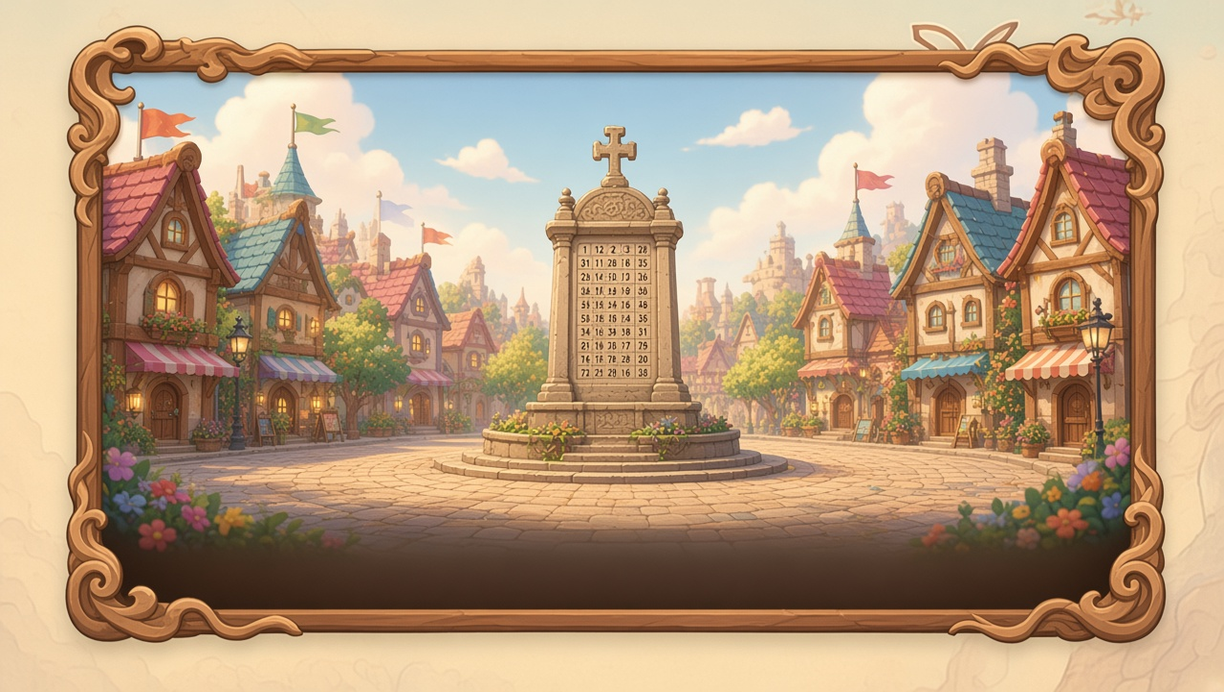
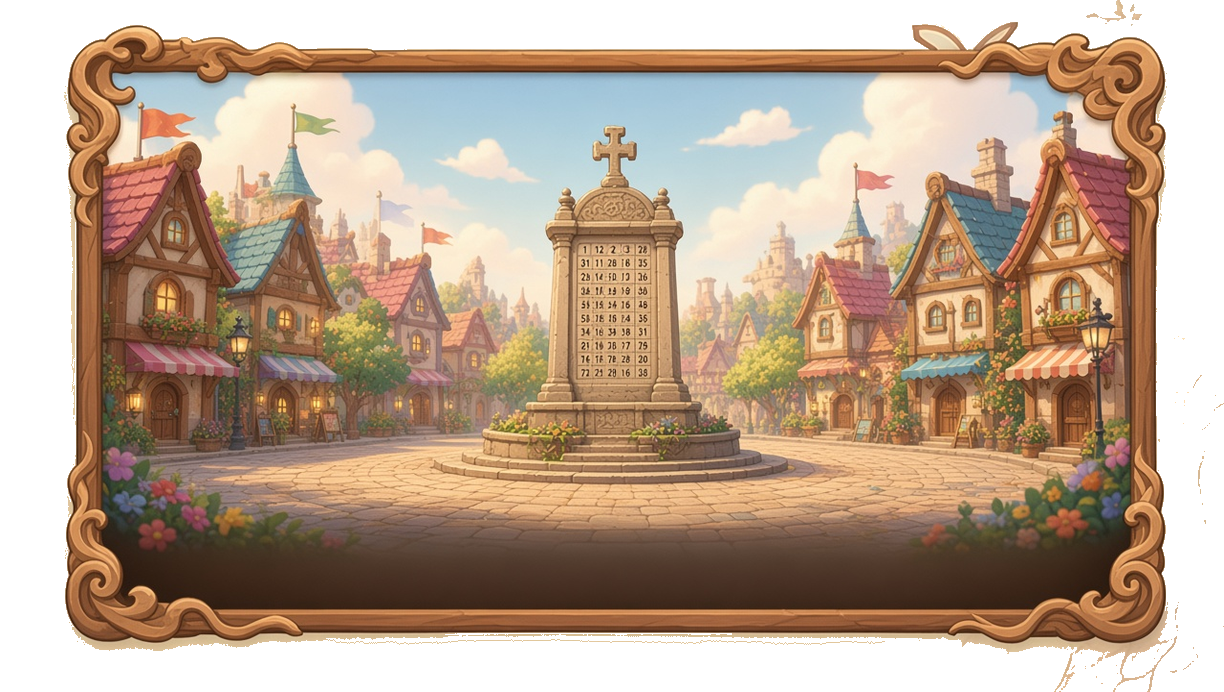
訓練場單元卡改用框外透明 PNG (#35)
九張風景卡換成帶 alpha 的 1224×692 圖，index.html 的 ?v= 與測試鎖的 SHA-256 改為新檔前 8／全文。

Changed region(s): [[0.0, 0.0, 1.0, 1.0]]

diff --git a/scripts/training-unit-card-test.js b/scripts/training-unit-card-test.js
@@ -11,15 +11,15 @@ const root = path.join(__dirname, '..');
 const html = fs.readFileSync(path.join(root, 'index.html'), 'utf8');
 
 const CARDS = [
[18 lines of base64/hex data omitted]
 ];
 
 function assert(cond, msg) {

diff --git a/index.html b/index.html
@@ -2051,15 +2051,15 @@
         }
         /* Training-town scenic cards, assigned by unit index. v = SHA-256 first 8 hex.
            Unit titles stay HTML on the dark band. Scenes without a top nameplate hide that label. */
-        .adventure-card--count .adventure-card__frame { background-image: url('assets/bg/ui-train-unit-01-count.png?v=285fe1f0'); }
-        .adventure-card--addsub .adventure-card__frame { background-image: url('assets/bg/ui-train-unit-02-addsub.png?v=ceec556f'); }
-        .adventure-card--hundred .adventure-card__frame { background-image: url('assets/bg/ui-train-unit-03-hundred.png?v=28c84bde'); }
-        .adventure-card--coins .adventure-card__frame { background-image: url('assets/bg/ui-train-unit-04-coins.png?v=4f767f45'); }
-        .adventure-card--length .adventure-card__frame { background-image: url('assets/bg/ui-train-unit-05-length.png?v=c0a65205'); }
-        .adventure-card--time .adventure-card__frame { background-image: url('assets/bg/ui-train-unit-06-time.png?v=810b76d1'); }
-        .adventure-card--fractions .adventure-card__frame { background-image: url('assets/bg/ui-train-unit-07-fractions.png?v=b6d287be'); }
-        .adventure-card--measure .adventure-card__frame { background-image: url('assets/bg/ui-train-unit-08-measure.png?v=548ed096'); }
-        .adventure-card--algebra .adventure-card__frame { background-image: url('assets/bg/ui-train-unit-09-algebra.png?v=94f76d00'); }
+        .adventure-card--count .adventure-card__frame { background-image: url('assets/bg/ui-train-unit-01-count.png?v=6a11e095'); }
+        .adventure-card--addsub .adventure-card__frame { background-image: url('assets/bg/ui-train-unit-02-addsub.png?v=d540831c'); }
+        .adventure-card--hundred .adventure-card__frame { background-image: url('assets/bg/ui-train-unit-03-hundred.png?v=5be7b13d'); }
+        .adventure-card--coins .adventure-card__frame { background-image: url('assets/bg/ui-train-unit-04-coins.png?v=ccd211a1'); }
+        .adventure-card--length .adventure-card__frame { background-image: url('assets/bg/ui-train-unit-05-length.png?v=08a01ecc'); }
+        .adventure-card--time .adventure-card__frame { background-image: url('assets/bg/ui-train-unit-06-time.png?v=daa87a9c'); }
+        .adventure-card--fractions .adventure-card__frame { background-image: url('assets/bg/ui-train-unit-07-fractions.png?v=d045ecf2'); }
+        .adventure-card--measure .adventure-card__frame { background-image: url('assets/bg/ui-train-unit-08-measure.png?v=f83c68ac'); }
+        .adventure-card--algebra .adventure-card__frame { background-image: url('assets/bg/ui-train-unit-09-algebra.png?v=5400e7fc'); }
         .adventure-card--count .adventure-card__plaque,
         .adventure-card--hundred .adventure-card__plaque,
         .adventure-card--coins .adventure-card__plaque,
